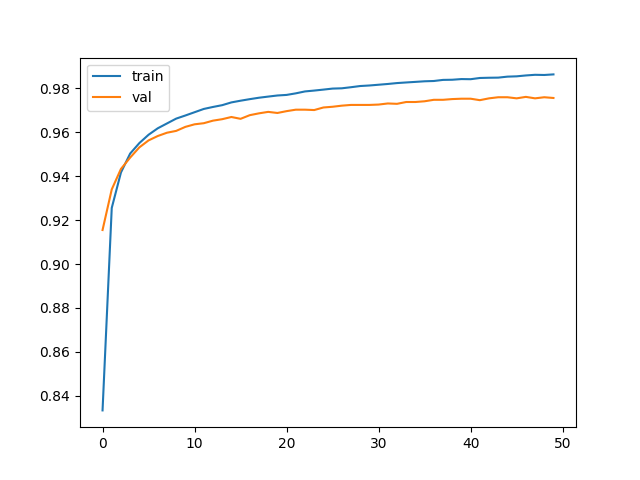
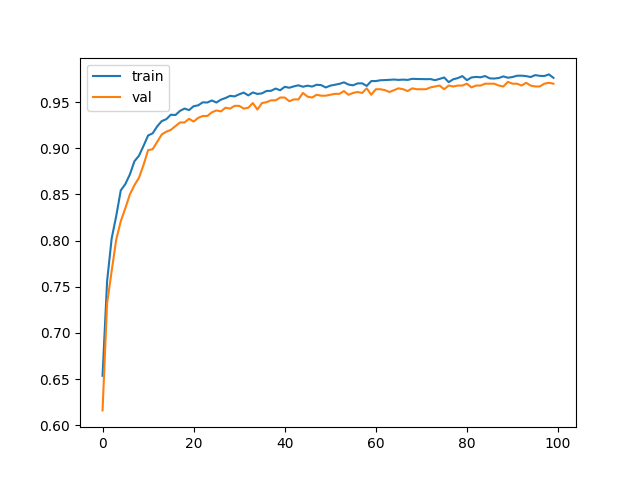
fix resnet

diff --git a/models.py b/models.py
@@ -1,14 +1,14 @@
 from neural_tangents import stax
 from util import jit_and_batch, split_key
-from modules import ResNetGroup, ConvBlock
+from modules import ResNetGroup
 from logger import get_logger
 logger = get_logger()
 
 class BaseModel():
-    def __init__(self, batch_size=0, device_count=-1, store_on_device=True):
+    def __init__(self, kernel_batch_size=0, device_count=-1, store_on_device=True):
         self.params = None
         self.apply_fn, self.kernel_fn = jit_and_batch(self.apply_fn, self.kernel_fn, 
-                                                      batch_size=batch_size,
+                                                      batch_size=kernel_batch_size,
                                                       device_count=device_count,
                                                       store_on_device=store_on_device)
         
@@ -20,7 +20,7 @@ class BaseModel():
         
     def update_params(self, params):
         self.params = params
-        
+
     def predict(self, x):
         if self.params is None:
             raise Exception('Model parameters not initialized.')
@@ -28,7 +28,7 @@ class BaseModel():
 
 class FCN(BaseModel):
     def __init__(self, 
-                 batch_size=0, 
+                 kernel_batch_size=0, 
                  device_count=-1, 
                  store_on_device=True, 
                  num_layers=2,
@@ -42,10 +42,10 @@ class FCN(BaseModel):
             *hid_layers,
             stax.Dense(out_dim, W_std=W_std, b_std=b_std)
         )
-        super(FCN, self).__init__(batch_size, device_count, store_on_device)
+        super(FCN, self).__init__(kernel_batch_size, device_count, store_on_device)
     
 class ResFCN(BaseModel):
-    def __init__(self, batch_size, device_count, store_on_device):
+    def __init__(self, kernel_batch_size, device_count, store_on_device):
         ResBlock = stax.serial(
             stax.FanOut(2),
             stax.parallel(
@@ -63,27 +63,61 @@ class ResFCN(BaseModel):
             ResBlock, ResBlock, stax.Erf(),
             stax.Dense(1, W_std=1.5, b_std=0)
         )
-        super(ResFCN, self).__init__(batch_size, device_count, store_on_device)
+        super(ResFCN, self).__init__(kernel_batch_size, device_count, store_on_device)
 
 class ResNet(BaseModel):
     def __init__(self, 
-                 batch_size=0, 
+                 kernel_batch_size=0, 
                  device_count=-1, 
                  store_on_device=True, 
                  W_std=1.5,
                  b_std=0.05,
-                 block_size=2, 
+                 block_size=1, 
                  num_classes=10):
         
         self.init_fn, self.apply_fn, self.kernel_fn = stax.serial(
+            stax.Conv(out_chan=32, filter_shape=(5, 5), strides=(2, 2), padding='SAME', W_std=W_std, b_std=b_std), stax.Relu(),
+            stax.Conv(out_chan=32, filter_shape=(5, 5), strides=(2, 2), padding='SAME', W_std=W_std, b_std=b_std), stax.Relu(),
+            stax.Conv(out_chan=10, filter_shape=(3, 3), strides=(2, 2), padding='SAME', W_std=W_std, b_std=b_std), stax.Relu(),
+            stax.Conv(out_chan=10, filter_shape=(3, 3), strides=(2, 2), padding='SAME', W_std=W_std, b_std=b_std), stax.Relu(),
+            
+            # stax.Conv(out_chan=32, filter_shape=(3, 3), strides=(2, 2), padding='SAME', W_std=W_std, b_std=b_std),
+            
+            stax.Flatten(),
+            stax.Dense(num_classes, W_std=W_std, b_std=b_std)
+        )
+        super(ResNet, self).__init__(kernel_batch_size, device_count, store_on_device)
+        
+class ResNet18(BaseModel):
+    def __init__(self, 
+                 kernel_batch_size=0, 
+                 device_count=-1, 
+                 store_on_device=True, 
+                 W_std=1.5,
+                 b_std=0.05,
+                 block_size=1, 
+                 num_classes=10):
+        """ResNet18 model. Input shape is at least (224, 224)
+        
+
+        Args:
+            kernel_batch_size (int, optional): _description_. Defaults to 0.
+            device_count (int, optional): _description_. Defaults to -1.
+            store_on_device (bool, optional): _description_. Defaults to True.
+            W_std (float, optional): _description_. Defaults to 1.5.
+            b_std (float, optional): _description_. Defaults to 0.05.
+            block_size (int, optional): _description_. Defaults to 1.
+            num_classes (int, optional): _description_. Defaults to 10.
+        """
+        self.init_fn, self.apply_fn, self.kernel_fn = stax.serial(
             stax.Conv(out_chan=64, filter_shape=(7, 7), strides=(2, 2), padding='SAME', W_std=W_std, b_std=b_std),
-            ResNetGroup(block_size, channels=64, W_std=W_std, b_std=b_std),
-            ResNetGroup(block_size, channels=128, W_std=W_std, b_std=b_std, strides=(2, 2)),
-            ResNetGroup(block_size, channels=256, W_std=W_std, b_std=b_std, strides=(2, 2)),
-            ResNetGroup(block_size, channels=512, W_std=W_std, b_std=b_std, strides=(2, 2)),
+            ResNetGroup(block_size, out_chan=64, W_std=W_std, b_std=b_std),
+            ResNetGroup(block_size, out_chan=128, W_std=W_std, b_std=b_std, strides=(2, 2)),
+            ResNetGroup(block_size, out_chan=256, W_std=W_std, b_std=b_std, strides=(2, 2)),
+            ResNetGroup(block_size, out_chan=512, W_std=W_std, b_std=b_std, strides=(2, 2)),
             stax.AvgPool((7, 7)),
             stax.Flatten(),
-            stax.Dense(num_classes, W_std=W_std, b_std=b_std),
+            stax.Dense(num_classes, W_std=W_std, b_std=b_std) # BUG: solved by correcting input shape
         )
-        super(ResNet, self).__init__(batch_size, device_count, store_on_device)
-        
+        super(ResNet, self).__init__(kernel_batch_size, device_count, store_on_device)
+

diff --git a/nn.py b/nn.py
@@ -33,8 +33,17 @@ class Trainer():
         train_batches = minibatch(*train, batch_size=self.batch_size, num_batches=num_batches)
         val_x, val_y = val
         
-        # initialise model if not yet initialised
-        self.model.init_params(train[0].shape)
+        # # initialise model if not yet initialised
+        # if padding:
+        #     if train[0].shape[1] < 224 or train[0].shape[2] < 224:
+        #         input_shape = (self.batch_size, 224, 224, 1)
+        #     else:
+        #         input_shape = (self.batch_size,) + train[0].shape[1:]
+        # else:
+        #     input_shape = (self.batch_size,) + train[0].shape[1:]
+        input_shape = (self.batch_size,) + train[0].shape[1:]
+        logger.debug(f"input shape: {input_shape}")
+        self.model.init_params(input_shape)
         opt_state = self.opt_init(self.model.params)
         
         train_losses = []
@@ -50,20 +59,23 @@ class Trainer():
             # train
             for _ in range(num_batches):
                 train_x, train_y = next(train_batches)
+                # train_preds = self.model.predict(train_x)
+                # print(train_preds.shape, np.any(train_preds != None))
+                # assert False
                 opt_state = self.opt_update(next(itercount), self.grad_loss(opt_state, train_x, train_y), opt_state)
-                self.model.update_params(self.get_params(opt_state))   
+                self.model.update_params(self.get_params(opt_state))
                 pbar.update(1)
             
             # eval
             epoch_train_loss, epoch_train_eval = 0, 0
             for _ in range(num_batches):
+                train_x, train_y = next(train_batches)
                 epoch_train_loss += self.loss(self.get_params(opt_state), train_x, train_y)
                 if metric != None:
                     train_preds = self.model.predict(train_x)
-                    print(train_preds)
-                    assert False
+                    assert np.any(train_preds != None)
                     epoch_train_eval += metric(train_preds, train_y)
-                assert False
+
             train_losses += [epoch_train_loss / num_batches]
             val_losses += [self.loss(self.get_params(opt_state), val_x, val_y)]
             
@@ -113,7 +125,7 @@ class Trainer():
                 train_m = metric(train_preds, train[1]).item()
                 val_preds = self.model.predict(val[0])
                 val_m = metric(val_preds, val[1]).item()
-                logger.info(f"train acc: {train_m}, val acc: {val_m}")
+                logger.info(f"train acc: {train_m:.4%}, val acc: {val_m:.4%}")
         
         return self.get_params(opt_state), train_losses, test_losses
                 

diff --git a/data_loader.py b/data_loader.py
@@ -1,9 +1,9 @@
 from jax import random
 import jax.numpy as np
 from jax.config import config
+from matplotlib import image
 config.update("jax_enable_x64", True)
 from keras.datasets import mnist
-import tensorflow_datasets as tfds
 from util import init_random_state, split_key
 from sklearn.model_selection import train_test_split
 from logger import get_logger
@@ -42,11 +42,12 @@ def load_mnist(shuffle: bool=True,
     assert y_train.shape == (60000,)
     assert y_test.shape == (10000,)
     
-    x_train, y_train = preprocess_mnist(x_train, y_train, flatten, one_hot)
-    x_test, y_test = preprocess_mnist(x_test, y_test, flatten, one_hot)
-    
     # train val split
     x_train, x_val, y_train, y_val = train_test_split(x_train, y_train, test_size=0.1, random_state=42, shuffle=shuffle)
+    
+    x_train, y_train = preprocess_mnist(x_train, y_train, flatten, one_hot)
+    x_val, y_val = preprocess_mnist(x_val, y_val, flatten, one_hot)
+    x_test, y_test = preprocess_mnist(x_test, y_test, flatten, one_hot)
     
     # x_train = x_train[:10000]
     # y_train = y_train[:10000]
@@ -55,7 +56,7 @@ def load_mnist(shuffle: bool=True,
     # x_test = x_test[:1000]
     # y_test = y_test[:1000]
     
-    logger.info(f"MNIST: {len(x_train)} train, {len(x_val)} val, {len(x_test)} test samples.")
+    logger.info(f"MNIST: {x_train.shape} train, {x_val.shape} val, {x_test.shape} test samples.")
     return (x_train, y_train), (x_val, y_val), (x_test, y_test)
 
 def preprocess_mnist(x, y, flatten: bool=False, one_hot: bool=True):
@@ -64,9 +65,16 @@ def preprocess_mnist(x, y, flatten: bool=False, one_hot: bool=True):
     else:
         # reshape to have single channel for CNN
         x = x.reshape(x.shape + (1,))
+        # image_size = x[0].shape
+        # pad_h = 224 - image_size[0]
+        # pad_w = 224 - image_size[1]
+        # # padding to 224x224
+        # pad_h = pad_h // 2 if pad_h > 0 else 0
+        # pad_w = pad_w // 2 if pad_w > 0 else 0
+        # x = np.pad(x, ((0, 0), (pad_h, pad_h), (pad_w, pad_w), (0, 0)))
     
     # normalise pixels of grayscale images
-    x = x/np.float64(255.)
+    x = x / np.float64(255.)
     
     # turn labels to one-hot encodings (-0.1 neg, 0.9 pos)
     if one_hot:

diff --git a/modules.py b/modules.py
@@ -1,12 +1,11 @@
 from neural_tangents import stax
-# from jax.example_libraries import stax
 
-def ResNetBlock(out_channels, W_std, b_std, strides=(1,1), channel_mismatch=False):
+def ResNetBlock(out_chan, W_std, b_std, strides=(1,1), channel_mismatch=False):
     conv = stax.serial(
-        stax.Relu(), stax.Conv(out_channels, (3,3), strides, padding='SAME', W_std=W_std, b_std=b_std),
-        stax.Relu(), stax.Conv(out_channels, (3,3), strides=(1, 1), padding='SAME', W_std=W_std, b_std=b_std),
+        stax.Relu(), stax.Conv(out_chan, (3,3), strides, padding='SAME', W_std=W_std, b_std=b_std),
+        stax.Relu(), stax.Conv(out_chan, (3,3), strides=(1, 1), padding='SAME', W_std=W_std, b_std=b_std),
     )
-    shortcut = stax.Identity() if not channel_mismatch else stax.Conv(out_channels, (3,3), strides, padding='SAME', W_std=W_std, b_std=b_std)
+    shortcut = stax.Identity() if not channel_mismatch else stax.Conv(out_chan, (3,3), strides, padding='SAME', W_std=W_std, b_std=b_std)
     
     return stax.serial(
         stax.FanOut(2),
@@ -14,10 +13,10 @@ def ResNetBlock(out_channels, W_std, b_std, strides=(1,1), channel_mismatch=Fals
         stax.FanInSum()
         )
     
-def ResNetGroup(n, out_channels, W_std, b_std, strides=(1,1)):
+def ResNetGroup(n, out_chan, W_std, b_std, strides=(1,1)):
     blocks = []
-    blocks += [ResNetBlock(out_channels, W_std=W_std, b_std=b_std, strides=strides, channel_mismatch=True)]
+    blocks += [ResNetBlock(out_chan, W_std=W_std, b_std=b_std, strides=strides)]
     for _ in range(n - 1):
-        blocks += [ResNetBlock(out_channels, W_std=W_std, b_std=b_std, strides=(1,1))]
+        blocks += [ResNetBlock(out_chan, W_std=W_std, b_std=b_std, strides=(1,1))]
         
     return stax.serial(*blocks)

diff --git a/train_nn.py b/train_nn.py
@@ -5,7 +5,7 @@ from jax.example_libraries import optimizers
 from util import args_parser
 import matplotlib.pyplot as plt
 import logger
-logger = logger.init_logger(log_level=logger.INFO)
+logger = logger.init_logger(log_level=logger.DEBUG)
 
 from models import FCN, ResNet
 
@@ -16,7 +16,7 @@ def main():
     
     # initialise model
     if args.model == 'resnet':
-        model = ResNet(block_size=4, k=1, num_classes=10)
+        model = ResNet(num_classes=10)
         flatten = False
     elif args.model == 'fcn':
         model = FCN(num_layers=2, hid_dim=1024, out_dim=10)
@@ -35,18 +35,18 @@ def main():
     plt.plot(train_losses, label='train')
     plt.plot(val_losses, label='val')
     plt.legend()
-    plt.savefig('figures/loss.png')
+    plt.savefig(f'figures/{args.model}_loss.png')
     plt.close()
     
     plt.plot(train_accs, label='train')
     plt.plot(val_accs, label='val')
     plt.legend()
-    plt.savefig('figures/accuracy.png')
+    plt.savefig(f'figures/{args.model}_accuracy.png')
     plt.close()
     
     predicts = model.predict(test[0])
     acc = accuracy(predicts, test[1])
-    logger.info(f"Test accuracy: {acc}")
+    logger.info(f"Test accuracy: {acc:.4%}")
     
 if __name__ == "__main__":
     main()

diff --git a/util.py b/util.py
@@ -39,7 +39,17 @@ def minibatch(x, y, batch_size, num_batches=None):
         perm = rng.permutation(num_train)
         for i in range(num_batches):
             batch_idx = perm[i * batch_size:(i + 1) * batch_size]
-            yield x[batch_idx], y[batch_idx]
+            batch_x, batch_y = x[batch_idx], y[batch_idx]
+            # if padding:
+            #     image_size = batch_x[0].shape
+            #     pad_h = 224 - image_size[0]
+            #     pad_w = 224 - image_size[1]
+            #     # padding to 224x224
+            #     pad_h = pad_h // 2 if pad_h > 0 else 0
+            #     pad_w = pad_w // 2 if pad_w > 0 else 0
+            #     batch_x = jnp.pad(batch_x, ((0, 0), (pad_h, pad_h), (pad_w, pad_w), (0, 0)))
+                
+            yield batch_x, batch_y
 
 def create_checkpoint(model, output_dir: str, max_to_keep: int=5, **kwargs):
     ckpt = tf.train.Checkpoint(model=model, **kwargs)
